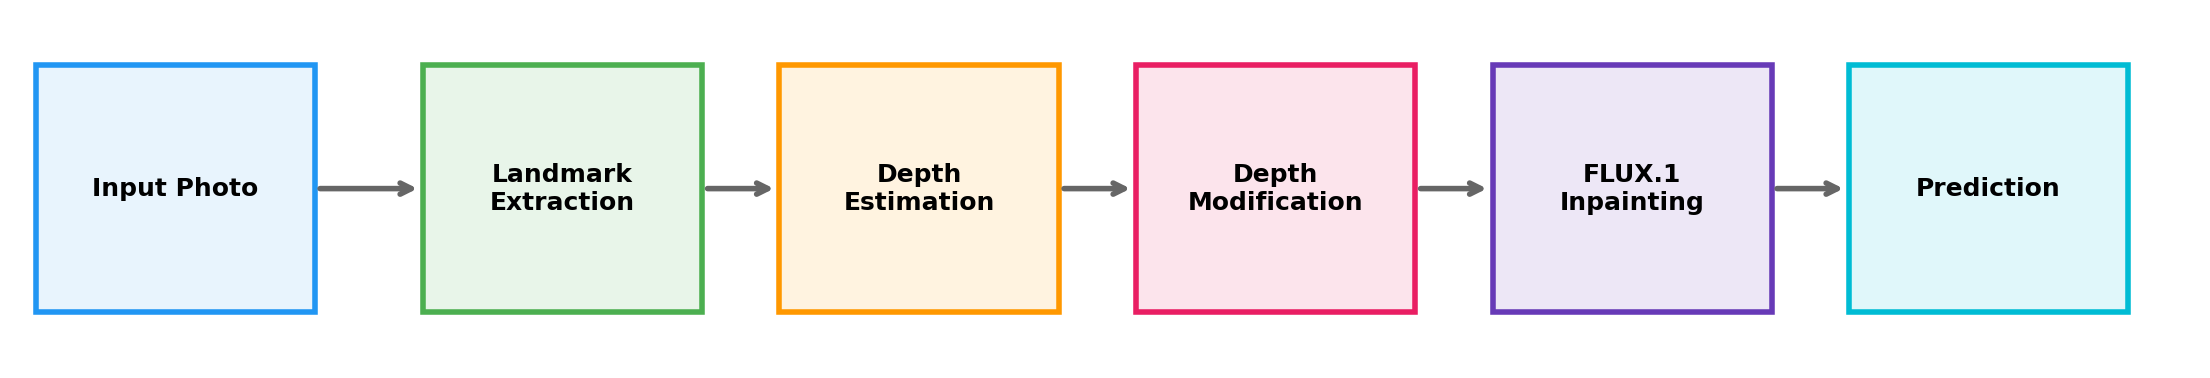
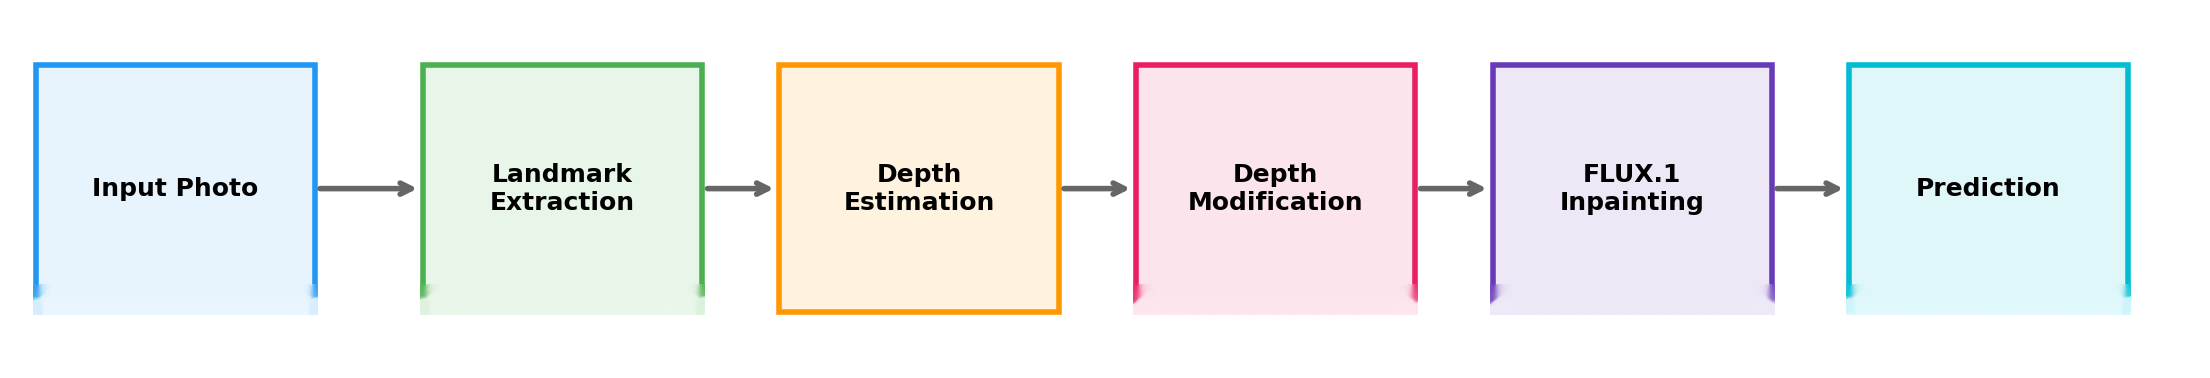
Add Why Envisage section, drop orthognathic, remove watermarks from figures

diff --git a/README.md b/README.md
@@ -41,9 +41,35 @@ Predict what a patient will look like after facial surgery from a single photogr
 </tr>
 </table>
 
+---
+
+## Why Envisage
+
+Existing approaches to surgical outcome prediction fall into five categories. Each has a fundamental limitation that Envisage addresses.
+
+| Approach | Examples | Core limitation | Envisage alternative |
+|:---------|:---------|:----------------|:---------------------|
+| Commercial hardware systems | Crisalix, Vectra 3D | $30,000--50,000 dedicated hardware; proprietary; results not reproducible | Single 2D photo input. Open-source code and evaluation framework. |
+| GAN-based prediction | Jung et al. (2022) | 52.5% Visual Turing test: predictions are distinguishable from real outcomes nearly half the time | FLUX.1-dev produces photorealistic 1024x1024 outputs zero-shot. |
+| Landmark-conditioned diffusion | LandmarkDiff (our prior work) | 97% of identity score came from compositing, not the model. SD 1.5 at 512x512 lacked resolution for clinical detail. | Inpainting preserves identity architecturally. Decomposed ArcFace prevents compositing from inflating metrics. |
+| Generic face editors | DragDiffusion, FaceApp | No anatomical priors, no procedure-specific guidance, no clinical evaluation | Depth conditioning maps to tissue displacement. Parameters scale with measured anatomy per procedure. |
+| 3D morphable models | ACMT-Net, GPOSC-Net | Require CT scans or multi-view input; not accessible from a single photograph | Works from one photo. No CT scans, no depth sensors, no multi-view capture. |
+
+**What makes Envisage different:**
+
+- **Zero training.** Works out of the box with pretrained FLUX.1-dev. No fine-tuning, no task-specific dataset collection.
+- **Architectural identity preservation.** The inpainting formulation copies all pixels outside the surgical mask. Identity is preserved by construction, not by optimization.
+- **Depth conditioning.** Modified depth maps encode the intended tissue displacement, giving the diffusion model explicit 3D guidance about the surgical change.
+- **Adaptive anatomy.** Mask dilation, depth kernels, and TPS warp parameters scale with measured facial dimensions. Nothing is a fixed pixel offset.
+- **Honest evaluation.** Decomposed ArcFace separates surgical from non-surgical regions, preventing compositing artifacts from inflating identity scores.
+- **Single 2D photo input.** No CT scans, no depth sensors, no multi-view rigs. A clinical photo or phone selfie is sufficient.
+- **Open source.** Full pipeline code, evaluation framework, and paper are publicly available.
+
+---
+
 ### Where We're Headed
 
-Envisage ships as a zero-shot inpainting system built on FLUX.1-dev. The approach works well for focal procedures (rhinoplasty, blepharoplasty) where the surgical region is small relative to the face. The next steps are: (1) extend to orthognathic surgery, where jaw repositioning affects a much larger facial area; (2) add interactive intensity control so clinicians can preview subtle through aggressive versions of a procedure; and (3) move toward 3D: reconstruct a face model from a short phone video and apply surgical deformations in 3D space for multi-angle visualization. No depth sensors, no clinical scanning rigs. Just a phone camera.
+Envisage ships as a zero-shot inpainting system built on FLUX.1-dev. The approach works well for focal procedures (rhinoplasty, blepharoplasty) where the surgical region is small relative to the face. The next steps are: (1) add interactive intensity control so clinicians can preview subtle through aggressive versions of a procedure; and (2) move toward 3D: reconstruct a face model from a short phone video and apply surgical deformations in 3D space for multi-angle visualization. No depth sensors, no clinical scanning rigs. Just a phone camera.
 
 > **Paper:** "Envisage: Depth-Conditioned Diffusion Inpainting for Facial Surgery Outcome Prediction," under review, 2026.
 
@@ -53,6 +79,7 @@ Envisage ships as a zero-shot inpainting system built on FLUX.1-dev. The approac
 
 ## Table of Contents
 
+- [Why Envisage](#why-envisage)
 - [Design Decisions from LandmarkDiff](#design-decisions-from-landmarkdiff)
 - [Pipeline](#pipeline)
 - [Demo Outputs](#demo-outputs)
@@ -214,7 +241,7 @@ python -m envisage.evaluation \
 
 ## Results
 
-Evaluated on the [HDA Plastic Surgery Database](https://doi.org/10.1109/CVPRW50498.2020.00425) (Rathgeb et al., CVPRW 2020). 637 total pairs, 125 test pairs from an 80/20 stratified split across four procedures.
+Evaluated on the [HDA Plastic Surgery Database](https://doi.org/10.1109/CVPRW50498.2020.00425) (Rathgeb et al., CVPRW 2020). 637 total pairs, 104 test pairs from an 80/20 stratified split across three procedures.
 
 ### Comparison with LandmarkDiff
 
@@ -223,8 +250,7 @@ Evaluated on the [HDA Plastic Surgery Database](https://doi.org/10.1109/CVPRW504
 | Rhinoplasty | 34 | **0.802** | 0.607 | **0.380** |
 | Blepharoplasty | 51 | **0.745** | 0.670 | **0.370** |
 | Rhytidectomy | 19 | 0.173 | **0.360** | **0.369** |
-| Orthognathic | 21 | N/A | **0.568** | **0.395** |
-| **Overall** | **125** | **0.631** | 0.551 | **0.377** |
+| **Overall** | **104** | **0.631** | 0.551 | **0.377** |
 
 LandmarkDiff scores include compositing (pasting the generated face back onto the original image). Without compositing, LandmarkDiff rhinoplasty ArcFace drops from 0.607 to 0.023, indicating the SD 1.5 model contributed almost no identity preservation on its own. Envisage scores are reported without compositing; the inpainting formulation inherently preserves non-surgical pixels.
 
@@ -321,10 +347,7 @@ This project is released for research use only. FLUX.1-dev is released under a n
 
 ## Clinical Disclaimer
 
-<div align="center">
-<sub>
-
-**This is a research tool, not a medical device.** Predictions are approximations generated by a diffusion model and do not reflect actual surgical outcomes. Outputs should always be reviewed by a qualified clinician before being shown to patients. The authors make no clinical claims about prediction accuracy or suitability for surgical planning. FLUX.1-dev is released under a non-commercial license.
-
-</sub>
-</div>
+> [!CAUTION]
+> **This is a research tool, not a medical device.**
+>
+> Predictions are approximations generated by a diffusion model and do not reflect actual surgical outcomes. Outputs should always be reviewed by a qualified clinician before being shown to patients. The authors make no clinical claims about prediction accuracy or suitability for surgical planning. Do not use this system for clinical decision-making without independent professional validation. FLUX.1-dev is released under a non-commercial license by Black Forest Labs.
